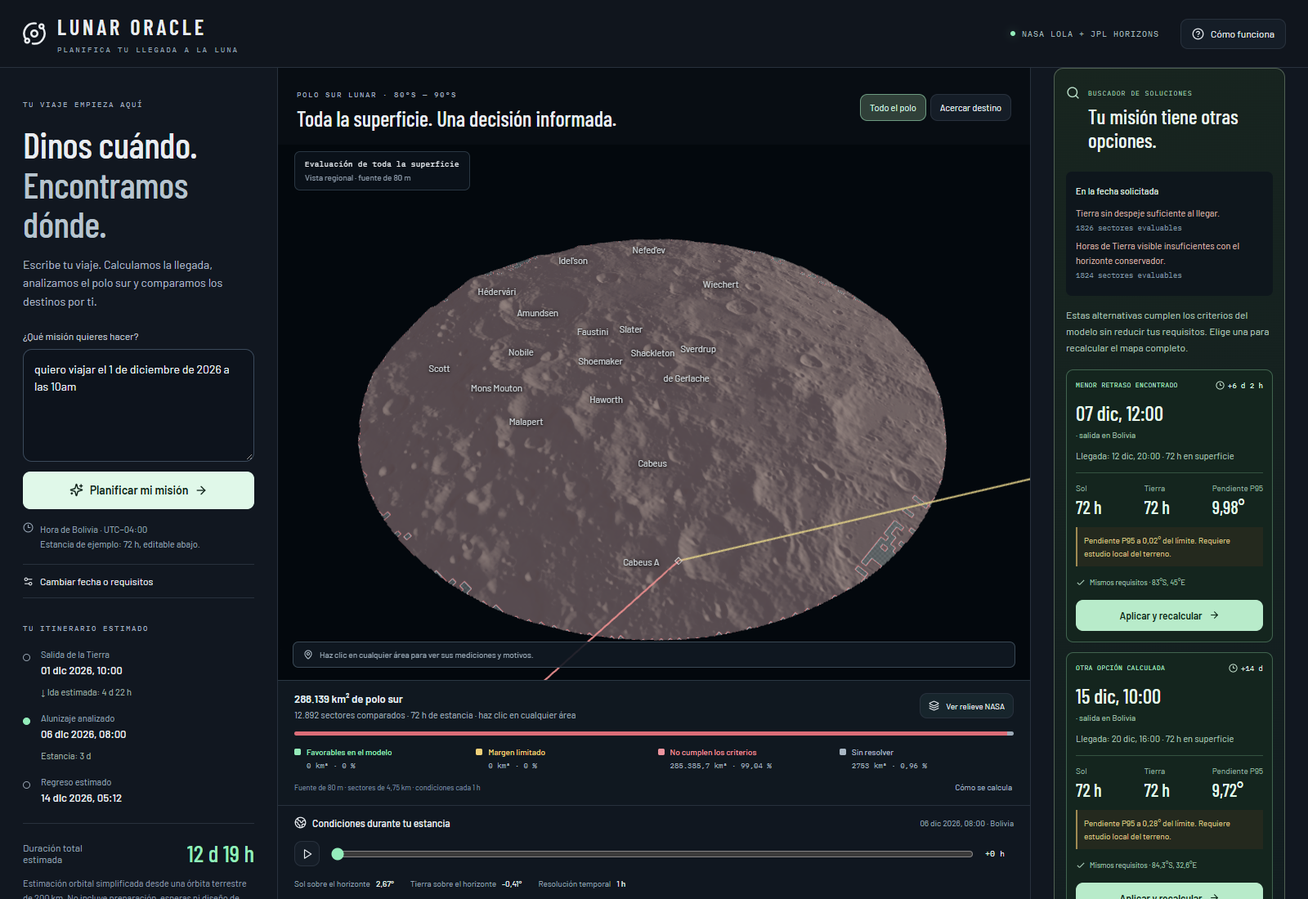
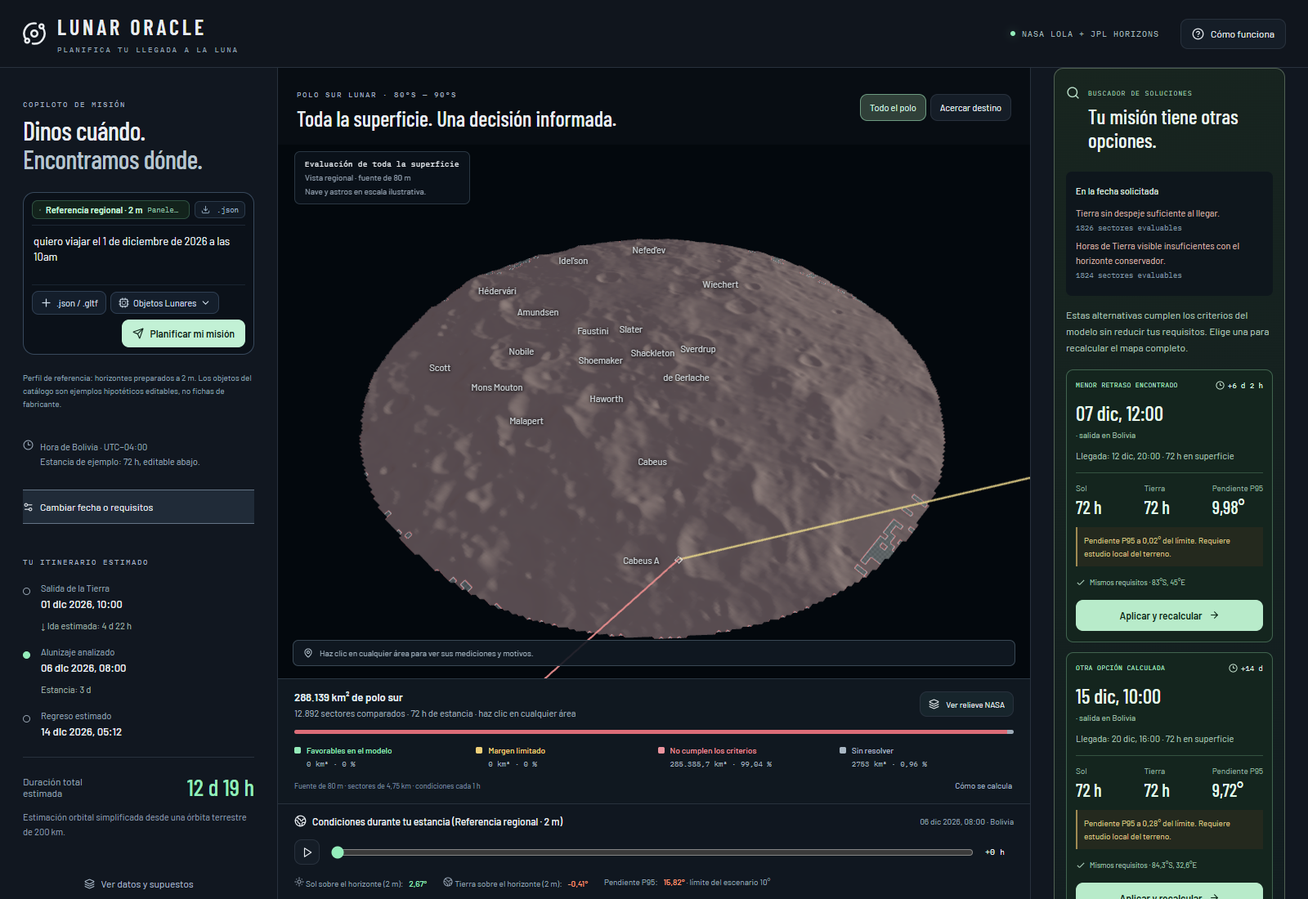
fix: clarify vehicle evidence and keep mission controls accessible

diff --git a/frontend/src/features/mission/UnifiedMissionPlanner.tsx b/frontend/src/features/mission/UnifiedMissionPlanner.tsx
@@ -1,5 +1,5 @@
 import { useEffect, useMemo, useRef, useState } from 'react'
-import { AlertTriangle, ArrowRight, Bot, Check, ChevronDown, CircleHelp, Clock3, Compass, Cpu, Download, FileUp, Globe2, Layers, LoaderCircle, MapPin, Orbit, Pause, Play, Plus, Radio, Rocket, Send, Settings2, Sun, User, X } from 'lucide-react'
+import { AlertTriangle, ArrowRight, Bot, Check, ChevronDown, CircleHelp, Clock3, Compass, Cpu, Download, FileUp, Globe2, Layers, LoaderCircle, MapPin, Orbit, Pause, Play, Plus, Rocket, Send, Settings2, Sun, User, X } from 'lucide-react'
 import { Tactical3DScene,type PlanMapMarker } from '../tactical/Tactical3DScene'
 import { loadAtlas,type AtlasData } from '../sites/atlasGeometry'
 import { loadDetailTile } from '../sites/lunarDetail'
@@ -323,8 +323,8 @@ export default function UnifiedMissionPlanner(){
       const solar_panel_height=meta.solar_panel_height??meta.panel_height
       const antenna_height=meta.antenna_height??meta.dte_antenna_height
       const center_of_gravity_tolerance=meta.center_of_gravity_tolerance??meta.max_slope_deg
-      if(typeof solar_panel_height!=='number'||typeof antenna_height!=='number'||typeof center_of_gravity_tolerance!=='number'||!Number.isFinite(solar_panel_height)||solar_panel_height<0.5||solar_panel_height>200||!Number.isFinite(antenna_height)||antenna_height<0.5||antenna_height>200||!Number.isFinite(center_of_gravity_tolerance)||center_of_gravity_tolerance<=0||center_of_gravity_tolerance>45){
-        setError('El archivo debe incluir solar_panel_height (0.5–200m), antenna_height (0.5–200m) y center_of_gravity_tolerance (1–45°).')
+      if(typeof solar_panel_height!=='number'||typeof antenna_height!=='number'||typeof center_of_gravity_tolerance!=='number'||!Number.isFinite(solar_panel_height)||solar_panel_height<0.5||solar_panel_height>200||!Number.isFinite(antenna_height)||antenna_height<0.5||antenna_height>200||!Number.isFinite(center_of_gravity_tolerance)||center_of_gravity_tolerance<0||center_of_gravity_tolerance>45){
+        setError('El archivo debe incluir solar_panel_height (0.5–200m), antenna_height (0.5–200m) y center_of_gravity_tolerance (0–45°).')
         return
       }
       setError('')
@@ -477,7 +477,7 @@ export default function UnifiedMissionPlanner(){
           {chatTurns.length===0&&!plan&&!busy&&<div className="chat-bubble assistant welcome-bubble">
             <div className="bubble-avatar"><Bot size={15}/></div>
             <div className="bubble-body">
-              <div className="bubble-meta"><strong>Gemini Copilot</strong><span>Copiloto del escenario</span></div>
+              <div className="bubble-meta"><strong>Copiloto de misión</strong><span>Planificador del escenario</span></div>
               <p>Escribe la fecha de tu viaje al Polo Sur Lunar. Dentro de la casilla inferior puedes <strong>adjuntar tu propio `.json` / `.gltf`</strong> con el botón <strong>+</strong> o elegir cualquiera de los <strong>perfiles de referencia y ejemplos hipotéticos de vehículos e infraestructura</strong>.</p>
               <button type="button" className="example-trip" onClick={()=>{setMessage(EXAMPLE);void calculate(EXAMPLE)}} disabled={!atlas||!polar}>Probar el viaje del 25 dic · 08:00 <ArrowRight size={12}/></button>
             </div>
@@ -516,27 +516,27 @@ export default function UnifiedMissionPlanner(){
             <div className="bubble-avatar"><Bot size={15}/></div>
             <div className="bubble-body">
               <div className="bubble-meta">
-                <strong>Análisis de Misión (Gemini Copilot)</strong>
-                <span>{reviewBusy?'Evaluando geometría…':landerReview?.mode==='ai'?`IA · ${landerReview.model}`:'Ingeniero Jefe LOLA'}</span>
+                <strong>Explicación del escenario</strong>
+                <span>{reviewBusy?'Evaluando geometría…':landerReview?.mode==='ai'?`IA · ${landerReview.model}`:'Guía con evidencia del modelo'}</span>
               </div>
               {landerReview?<>
                 <p className="engineer-summary">{landerReview.summary}</p>
                 <div className="engineer-alert">
                   <AlertTriangle size={14}/>
-                  <div><strong>Diagnóstico de Supervivencia:</strong> {landerReview.risk_alert}</div>
+                  <div><strong>Condiciones y límites:</strong> {landerReview.risk_alert}</div>
                 </div>
                 <div className="engineer-recs">
-                  <span className="micro-title">RECOMENDACIONES TÁCTICAS</span>
+                  <span className="micro-title">OPCIONES PARA ESTUDIAR</span>
                   <div className="engineer-rec-item">
-                    <strong>1. Cambio de Sitio:</strong> {landerReview.site_recommendation}
+                    <strong>1. Sitio:</strong> {landerReview.site_recommendation}
                     {recommendedAlt&&recommendedAlt.id!==selected?.id&&<button type="button" onClick={()=>{choose(recommendedAlt.id);setFocus(true);appendChatTurn('user',`Cambiar coordenada objetivo al sector alternativo (${num(Math.abs(recommendedAlt.latitude_deg),2)}°S, ${longitude(recommendedAlt.longitude_deg,2)})`,vehicle)}}>Ir al sitio alternativo ({num(Math.abs(recommendedAlt.latitude_deg),2)}°S)</button>}
                   </div>
                   <div className="engineer-rec-item">
-                    <strong>2. Cambio de Hardware:</strong> {landerReview.hardware_recommendation}
-                    {vehicle.solar_panel_height<45&&<button type="button" onClick={()=>{setFocus(true);applyVehicleProfile(LUNAR_OBJECTS.starship,'Recalculando con Starship HLS (Paneles a 50 m)…')}}>Recalcular misión con perfil Starship HLS (50m)</button>}
+                    <strong>2. Perfil del vehículo:</strong> {landerReview.hardware_recommendation}
+                    <small>Para comparar otras alturas se necesitan horizontes propios; elegir un nombre de nave no resuelve la falta de datos.</small>
                   </div>
                 </div>
-              </>:<p className="loading-note"><LoaderCircle size={13} className="spin"/> Generando diagnóstico del Ingeniero Jefe para {vehicle.lander_name}…</p>}
+              </>:<p className="loading-note"><LoaderCircle size={13} className="spin"/> Preparando una explicación del escenario para {vehicle.lander_name}…</p>}
             </div>
           </div>}
           <div ref={chatEndRef}/>
@@ -580,7 +580,7 @@ export default function UnifiedMissionPlanner(){
           />
 
           {/* Popover menu for all Lunar South Pole vehicles, rovers & habitats */}
-          {catalogOpen&&<div className="lunar-catalog-popover" role="listbox" aria-label="Objetos y vehículos para el Polo Sur Lunar">
+          {catalogOpen&&<div className="lunar-catalog-popover" role="region" aria-label="Objetos y vehículos para el Polo Sur Lunar">
             <div className="catalog-popover-head">
               <span><Compass size={12}/> OBJETOS Y ELEMENTOS · POLO SUR LUNAR</span>
               <button type="button" onClick={()=>setCatalogOpen(false)} aria-label="Cerrar selector"><X size={13}/></button>
@@ -611,7 +611,7 @@ export default function UnifiedMissionPlanner(){
             </div>
             <div className="catalog-popover-foot">
               <button type="button" onClick={()=>{setCatalogOpen(false);fileInputRef.current?.click()}}>
-                <FileUp size={13}/> Subir archivo personalizado (.json / .gltf / .glb)
+                <FileUp size={13}/> Subir archivo personalizado (.json / .gltf)
               </button>
             </div>
           </div>}
@@ -688,16 +688,16 @@ export default function UnifiedMissionPlanner(){
           <div className="conditions-heading"><strong><Globe2 size={15}/> Condiciones durante tu estancia ({vehicle.lander_name})</strong><time>{current?localDate(current.t_utc):localDate(plan.mission.arrival_utc)} · Bolivia</time></div>
           <div className="conditions-slider"><button aria-label={playing?'Pausar condiciones':'Reproducir condiciones'} disabled={!series.length||flying} onClick={()=>{if(timeline===series.length-1)setTimeline(0);setPlaying(v=>!v)}}>{playing?<Pause size={14}/>:<Play size={14}/>}</button><input aria-label="Hora de la estancia" type="range" min={0} max={Math.max(0,series.length-1)} value={timeline} disabled={!series.length||flying} onChange={e=>{setPlaying(false);setTimeline(Number(e.target.value))}}/><span>+{timeline} h</span></div>
           <div className="conditions-readouts">
-            <span><Sun size={12}/> Paneles ({vehicle.solar_panel_height}m): <b className={current&&current.sun_elevation_deg-current.sun_horizon_deg>0.3?'kpi-ok':'kpi-warn'}>{current?(current.sun_elevation_deg-current.sun_horizon_deg>0.3?(current.base_sun_horizon_deg!==undefined&&current.sun_elevation_deg-current.base_sun_horizon_deg<=0.3?'ENERGÍA NOMINAL (Punta iluminada · Base en sombra)':`ENERGÍA NOMINAL (+${num(current.sun_elevation_deg-current.sun_horizon_deg,2)}°)`):`SOMBRA (${num(current.sun_elevation_deg-current.sun_horizon_deg,2)}°)`):'—'}</b></span>
-            <span><Radio size={12}/> Antena DTE ({vehicle.antenna_height}m): <b className={current&&current.earth_elevation_deg-current.earth_horizon_deg>0.3?'kpi-ok':'kpi-warn'}>{current?(current.earth_elevation_deg-current.earth_horizon_deg>0.3?`ENLACE DIRECTO (+${num(current.earth_elevation_deg-current.earth_horizon_deg,2)}°)`:`BLOQUEO (${num(current.earth_elevation_deg-current.earth_horizon_deg,2)}°)`):'—'}</b></span>
-            <span>Pendiente vs CG ({vehicle.center_of_gravity_tolerance}°): <b className={(selected?.regional_slope_deg??0)<=vehicle.center_of_gravity_tolerance?'kpi-ok':'kpi-warn'}>{num(selected?.regional_slope_deg,1)}°</b></span>
+            <span><Sun size={12}/> Sol sobre el horizonte ({vehicle.solar_panel_height} m): <b className={current?(current.sun_elevation_deg-current.sun_horizon_deg>0.3?'kpi-ok':'kpi-warn'):undefined}>{num(current?current.sun_elevation_deg-current.sun_horizon_deg:null,2)}°</b></span>
+            <span><Globe2 size={12}/> Tierra sobre el horizonte ({vehicle.antenna_height} m): <b className={current?(current.earth_elevation_deg-current.earth_horizon_deg>0.3?'kpi-ok':'kpi-warn'):undefined}>{num(current?current.earth_elevation_deg-current.earth_horizon_deg:null,2)}°</b></span>
+            <span>Pendiente P95: <b className={selected?.regional_slope_deg==null?undefined:selected.regional_slope_deg<=Math.min(intent?.max_slope_deg??slope,vehicle.center_of_gravity_tolerance)?'kpi-ok':'kpi-warn'}>{num(selected?.regional_slope_deg,2)}°</b> · límite del escenario {num(Math.min(intent?.max_slope_deg??slope,vehicle.center_of_gravity_tolerance),2)}°</span>
           </div>
         </div>}
       </main>
 
       <aside className="mission-decisions">
         {!plan?<div className="decision-welcome"><MapPin size={28}/><h2>Aquí encontrarás tu mejor opción.</h2><p>El sistema relacionará la fecha de tu viaje y el objeto lunar elegido con el terreno, la luz y la visibilidad de la Tierra.</p><ul><li><Check size={13}/> Un destino recomendado y sus razones</li><li><Check size={13}/> Clasificación de toda la superficie</li><li><Check size={13}/> Diagnóstico conversacional en el chat izquierdo</li></ul><small>Los resultados corresponden a un modelo regional de planificación, no a una autorización de vuelo.</small></div>:<>
-          <div className="decision-title"><span className="micro-title">{plan.best?'RECOMENDACIÓN CALCULADA':'NINGUNA ZONA CUMPLE TODOS LOS CRITERIOS'}</span>{aiMode&&<small>{aiMode}</small>}</div>
+          <div className="decision-title"><span className="micro-title">{plan.best?'RECOMENDACIÓN CALCULADA':plan.counts.unknown===plan.total_cells?'FALTAN DATOS PARA EVALUAR ESTE PERFIL':'NINGUNA ZONA CUMPLE TODOS LOS CRITERIOS'}</span>{aiMode&&<small>{aiMode}</small>}</div>
           {plan.best?<button className={'best-destination '+(selected?.id===plan.best.id?'selected':'')} onClick={()=>choose(plan.best!.id)}><span className="best-badge">★ MEJOR CANDIDATO</span><h2>{num(Math.abs(plan.best.latitude_deg),3)}°S · {longitude(plan.best.longitude_deg,3)}</h2><p>{reasonPoint(plan.best)}</p><div className="destination-metrics"><span>Luz solar<strong>{num(plan.best.sun_hours,0)} h</strong></span><span>Tierra visible<strong>{num(plan.best.earth_hours,0)} h</strong></span><span>Pendiente P95<strong>{num(plan.best.regional_slope_deg,2)}°</strong></span></div></button>:<MissionRescuePanel report={rescueReport} busy={rescueBusy} error={rescueError} elapsed={rescueElapsed} onApply={applyAlternative} onRetry={()=>setRescueAttempt(a=>a+1)} onCancel={cancelRescue} onEvidence={()=>setEvidence(true)}/>}
           {plan.alternatives.filter(p=>p.id!==plan.best?.id).length>0&&<section className="other-destinations"><h3>También puedes estudiar</h3>{plan.alternatives.filter(p=>p.id!==plan.best?.id).map((p,i)=><button key={p.id} className={selected?.id===p.id?'selected':''} onClick={()=>choose(p.id)}><span className="destination-number">{i+2}</span><div><strong>{num(Math.abs(p.latitude_deg),2)}°S · {longitude(p.longitude_deg,2)}</strong><small>{num(p.sun_hours,0)} h de Sol · {num(p.earth_hours,0)} h de Tierra</small></div><ArrowRight size={13}/></button>)}</section>}
           {selected&&<section className="selected-destination"><div className="selected-destination-title"><span className={'selected-color '+selected.risk}/><h3>{selectedLabel}</h3></div><span className="selected-sector-id">Sector {selected.id.replace('polar:','')} · {num(selected.area_km2,2)} km² regionales</span><p>{reasonPoint(selected)}</p><dl><div><dt>Perfil del escenario</dt><dd>{vehicle.lander_name}</dd></div><div><dt>Centro del sector</dt><dd>{num(selected.latitude_deg,5)}°, {num(selected.longitude_deg,5)}°</dd></div><div><dt>Elevación</dt><dd>{num(selected.elevation_m??selectedCell?.elevation_m,0)} m</dd></div><div><dt>Pendiente P95 · fuente de 80 m</dt><dd>{num(selected.regional_slope_deg,2)}°</dd></div><div><dt>Máxima pendiente nativa</dt><dd>{num(selected.max_slope_deg??selectedCell?.max_slope_deg)}°</dd></div><div><dt>Sol visible acumulado</dt><dd>{num(selected.sun_hours,0)} h</dd></div><div><dt>Tierra visible acumulada</dt><dd>{num(selected.earth_hours,0)} h</dd></div></dl>

diff --git a/frontend/src/features/mission/unified-mission.css b/frontend/src/features/mission/unified-mission.css
@@ -173,7 +173,7 @@ button:disabled{cursor:default;opacity:.43}
 .engineer-bubble .engineer-rec-item button{margin-top:5px;width:100%;font-size:11px;padding:7px 9px;background:#193126;border-color:#598c6c;color:#d6fce6}
 
 /* ChatGPT / Gemini style unified composer with inline + (.json/.gltf) and Lunar Object Selector */
-.chat-composer-box{position:relative;border:1px solid #38495c;background:#0b1119;border-radius:14px;padding:9px 10px 8px;transition:border-color .15s,box-shadow .15s}
+.chat-composer-box{position:relative;flex-shrink:0;border:1px solid #38495c;background:#0b1119;border-radius:14px;padding:9px 10px 8px;transition:border-color .15s,box-shadow .15s}
 .chat-composer-box:focus-within,.chat-composer-box.dragging{border-color:var(--green);box-shadow:0 0 0 1px #94edbb33}
 .composer-attachment-bar{display:flex;align-items:center;justify-content:space-between;gap:6px;padding-bottom:7px;margin-bottom:6px;border-bottom:1px solid #1d2835}
 .composer-active-chip{display:flex;align-items:center;gap:6px;min-width:0;padding:4px 8px;border-radius:7px;background:#13231c;border:1px solid #2f5241;color:#c7f7dc;font-size:11px}
@@ -189,11 +189,11 @@ button:disabled{cursor:default;opacity:.43}
 .upload-notice{display:block;margin-top:6px;font-size:10px;color:var(--green)}
 
 /* Popover for all Lunar South Pole objects and vehicles */
-.lunar-catalog-popover{position:absolute;left:0;right:0;bottom:calc(100% + 8px);z-index:90;max-height:360px;display:flex;flex-direction:column;background:#101823;border:1px solid #486178;border-radius:12px;box-shadow:0 14px 42px #000c;overflow:hidden}
-.catalog-popover-head{display:flex;align-items:center;justify-content:space-between;padding:9px 11px;background:#15202e;border-bottom:1px solid #293849;font:600 9px 'IBM Plex Mono',monospace;color:#b9d4c6;letter-spacing:.8px}
+.lunar-catalog-popover{position:relative;margin:8px 0;max-height:min(360px,50dvh);flex-shrink:0;display:flex;flex-direction:column;background:#101823;border:1px solid #486178;border-radius:12px;box-shadow:0 14px 42px #000c;overflow:hidden}
+.catalog-popover-head{flex-shrink:0;display:flex;align-items:center;justify-content:space-between;padding:9px 11px;background:#15202e;border-bottom:1px solid #293849;font:600 9px 'IBM Plex Mono',monospace;color:#b9d4c6;letter-spacing:.8px}
 .catalog-popover-head span{display:flex;align-items:center;gap:6px}
 .unified-mission .catalog-popover-head button{padding:3px;border:0;background:transparent}
-.catalog-popover-list{overflow-y:auto;padding:8px;display:flex;flex-direction:column;gap:10px;scrollbar-width:thin}
+.catalog-popover-list{min-height:0;overflow-y:auto;padding:8px;display:flex;flex-direction:column;gap:10px;scrollbar-width:thin}
 .catalog-group{display:flex;flex-direction:column;gap:5px}
 .catalog-group-title{font:600 9px 'IBM Plex Mono',monospace;color:#88a4b8;padding:2px 4px;text-transform:uppercase;letter-spacing:.7px}
 .unified-mission .catalog-item-btn{width:100%;display:flex;flex-direction:column;align-items:flex-start;gap:3px;text-align:left;padding:8px 9px;border-radius:8px;background:#0c131c;border:1px solid #233140}
@@ -202,7 +202,7 @@ button:disabled{cursor:default;opacity:.43}
 .catalog-item-main strong{font-size:12px;color:#edf5fa}
 .catalog-item-main span{font:9px 'IBM Plex Mono',monospace;color:var(--green)}
 .catalog-item-btn small{font-size:10px;color:#97aab9;line-height:1.35}
-.catalog-popover-foot{padding:7px 8px;border-top:1px solid #253444;background:#0d141d}
+.catalog-popover-foot{flex-shrink:0;padding:7px 8px;border-top:1px solid #253444;background:#0d141d}
 .unified-mission .catalog-popover-foot button{width:100%;font-size:11px;padding:7px;border-style:dashed;border-color:#445e75;background:#131d29}
 
 .conditions-readouts b.kpi-ok{color:var(--green)}

diff --git a/frontend/src/features/mission/MissionRescuePanel.tsx b/frontend/src/features/mission/MissionRescuePanel.tsx
@@ -3,6 +3,7 @@ import {ArrowRight,Check,Clock3,LoaderCircle,RefreshCw,Search,X} from 'lucide-re
 import type {RescueReport,RescueProposal} from './rescueTypes'
 const n=(value:number|null|undefined,digits=1)=>typeof value==='number'&&Number.isFinite(value)?value.toLocaleString('es',{maximumFractionDigits:digits}):'—'
 const time=(utc:string)=>new Intl.DateTimeFormat('es',{timeZone:'America/La_Paz',day:'2-digit',month:'short',hour:'2-digit',minute:'2-digit',hour12:false}).format(new Date(utc))
+function slopeMargin(proposal:RescueProposal){return Math.min(proposal.proposed_request.max_slope_deg,proposal.proposed_request.vehicle_profile?.center_of_gravity_tolerance??proposal.proposed_request.max_slope_deg)-(proposal.best.regional_slope_deg??0)}
 function delay(hours:number){const days=Math.floor(hours/24),rest=hours%24;return (days?days+' d ':'')+(rest?n(rest)+' h':days?'':'0 h')}
 export default function MissionRescuePanel({report,busy,error,elapsed,onApply,onRetry,onCancel,onEvidence}:{report:RescueReport|null;busy:boolean;error:string;elapsed:number;onApply:(proposal:RescueProposal)=>void;onRetry:()=>void;onCancel:()=>void;onEvidence:()=>void}){
  const found=report?.status==='found'&&Boolean(report.proposals.length)
@@ -15,7 +16,7 @@ export default function MissionRescuePanel({report,busy,error,elapsed,onApply,on
     <h3>{time(proposal.proposed_request.departure_utc)} <small>· {proposal.proposed_request.date_kind==='landing'?'alunizaje':'salida'} en Bolivia</small></h3>
     <p className="proposal-arrival">Llegada: {time(proposal.mission.arrival_utc)} · {n(proposal.mission.surface_hours)} h en superficie</p>
     <div className="proposal-metrics"><span>Sol <b>{n(proposal.best.sun_hours)} h</b></span><span>Tierra <b>{n(proposal.best.earth_hours)} h</b></span><span>Pendiente P95 <b>{n(proposal.best.regional_slope_deg,2)}°</b></span></div>
-    {proposal.best.regional_slope_deg!=null&&proposal.proposed_request.max_slope_deg-proposal.best.regional_slope_deg<1&&<p className="proposal-caution">Pendiente P95 a {n(proposal.proposed_request.max_slope_deg-proposal.best.regional_slope_deg,2)}° del límite. Requiere estudio local del terreno.</p>}<div className="proposal-preserved"><Check size={12}/> Mismos requisitos · {n(Math.abs(proposal.best.latitude_deg))}°S, {n(Math.abs(proposal.best.longitude_deg))}°{proposal.best.longitude_deg<0?'O':'E'}</div>
+    {proposal.best.regional_slope_deg!=null&&slopeMargin(proposal)<1&&<p className="proposal-caution">Pendiente P95 a {n(slopeMargin(proposal),2)}° del límite. Requiere estudio local del terreno.</p>}<div className="proposal-preserved"><Check size={12}/> Mismos requisitos · {n(Math.abs(proposal.best.latitude_deg))}°S, {n(Math.abs(proposal.best.longitude_deg))}°{proposal.best.longitude_deg<0?'O':'E'}</div>
     <button className="apply-rescue" onClick={()=>onApply(proposal)}>Aplicar y recalcular <ArrowRight size={13}/></button>
    </article>)}</div></>}
    {report?.status==='none'&&<p>Ninguna de las fechas evaluadas dentro de los próximos {report.search.search_days} días cumplió los criterios. Puedes mover la fecha o ajustar tus requisitos; no se han cambiado automáticamente.</p>}

diff --git a/docs/DECISION_SUPPORT_AND_TWIN_ROADMAP.md b/docs/DECISION_SUPPORT_AND_TWIN_ROADMAP.md
@@ -30,9 +30,9 @@ Las dos últimas filas son una hoja de ruta, no capacidades que el producto actu
 
 | Prioridad | Función | Decisión que permite tomar | Estado en esta revisión |
 | --- | --- | --- | --- |
-| P0 | Rescate automático del escenario | Qué fechas o lugares satisfacen las mismas restricciones | Trabajo de esta iteración |
-| P0 | Comparador del escenario original y propuestas | Qué cambió, qué se preservó y qué mejora realmente | Integración de interfaz asociada al rescate |
-| P1 | Ventanas operativas y cuenta atrás | Cuándo se pierde o recupera Sol/Tierra y cuánto dura el peor corte | Derivable de series propias; requiere etiquetas de cadencia y límite temporal |
+| P0 | Rescate automático del escenario | Qué fechas o lugares satisfacen las mismas restricciones | Implementado y probado con respuestas NASA originales |
+| P0 | Comparador del escenario original y propuestas | Qué cambió, qué se preservó y qué mejora realmente | Implementado: aplicación explícita y exportación de la comparación |
+| P1 | Ventanas operativas y cuenta atrás | Cuándo se pierde o recupera Sol/Tierra y cuánto dura el peor corte | Implementado con cadencia horaria, intervalos y fin de datos explícitos |
 | P1 | Modelo configurable de energía y memoria | Si la nave puede sostener la operación durante los cortes | Requiere parámetros de vehículo y actividades; no inferirlos de la apariencia del mapa |
 | P2 | Planificación de actividades y frontera de compromisos | Qué observaciones ejecutar con energía y comunicaciones disponibles | Depende del modelo de recursos |
 | P2 | Refinamiento local y validación independiente | Si la preselección regional se mantiene a escala de huella | Requiere datos locales y tolerancias de nave |
@@ -180,3 +180,12 @@ Las mediciones pueden llegar mediante archivos importados; no hace falta inventa
 Las páginas de algunos eventos locales 2026 alojadas en el portal citan impacto, creatividad, validez, relevancia y presentación. Son contenidos de organizadores locales y no sustituyen el manual global ni las reglas de la sede del equipo. [Space Apps Ajmer 2026](https://www.spaceappschallenge.org/2026/local-events/ajmer/), [Space Apps Islamabad 2026](https://www.spaceappschallenge.org/2026/local-events/islamabad/). No se afirma que esta hoja de ruta garantice premios o interés institucional.
 
 El mayor avance inmediato es cerrar el ciclo «evaluar, explicar, proponer, comparar y recalcular». El camino hacia el gemelo exige después conectar ese ciclo con estados y observaciones del sistema que se desea representar.
+
+
+## Perfiles de nave: evidencia antes de comparar hardware
+
+El chat permite importar un perfil JSON o metadatos JSON glTF y elegir ejemplos hipotéticos del catálogo. Cada archivo debe declarar altura de paneles, altura de antena y límite de pendiente; se rechazan números ausentes, booleanos y valores fuera de rango. El nombre se toma de los metadatos o del archivo. El límite es 1 MiB y no se admiten archivos GLB binarios. La apariencia y el nombre del objeto no verifican sus especificaciones físicas.
+
+El conjunto actual de horizontes corresponde a un observador a 2 m. Una altura diferente requiere calcular su horizonte desde el terreno; hasta entonces, sus horas de Sol/Tierra quedan desconocidas y el rescate no propone una fecha ficticia. No se utiliza una distancia arbitraria a obstáculos para conceder visibilidad a vehículos altos. El límite efectivo de pendiente es el menor entre la preferencia del usuario y el límite declarado por el perfil; cargar un vehículo nunca relaja la preferencia.
+
+Gemini recibe un resumen compacto de mediciones, fuentes y cobertura. Su explicación no convierte despeje solar en energía, visibilidad de la Tierra en capacidad de transmisión, ni pendiente regional en estabilidad mecánica o supervivencia. El descenso sigue siendo un ensayo de una nave genérica hipotética, sin parámetros dinámicos identificados de los objetos del catálogo.

diff --git a/README.md b/README.md
@@ -183,3 +183,14 @@ node frontend/scripts/test-mission-rescue.mjs
 ~~~
 
 Las seis respuestas originales NASA de la búsqueda y de la aplicación exacta se identifican en data/prepared/rescue_example.json. Las suites Node y Python validan ese caso sin red. El detalle del algoritmo y la evolución propuesta hacia un gemelo ambiental y operacional están en [DECISION_SUPPORT_AND_TWIN_ROADMAP.md](docs/DECISION_SUPPORT_AND_TWIN_ROADMAP.md).
+
+
+## Perfiles de vehículo sin supuestos ocultos
+
+El chat acepta perfiles `.json` o metadatos `.gltf` de hasta 1 MiB, con parámetros numéricos obligatorios. Los objetos del catálogo son ejemplos hipotéticos; no representan especificaciones verificadas del fabricante. La referencia regional utiliza paneles y antena a 2 m, que es la altura de los horizontes preparados. Otras alturas quedan como datos desconocidos hasta calcular horizontes propios. La tolerancia de un perfil nunca amplía el límite de pendiente elegido por el usuario.
+
+La explicación de Gemini se apoya en las mediciones y las fuentes del escenario; no afirma supervivencia, producción eléctrica o prestaciones de radio a partir de visibilidad geométrica. Para comprobar importaciones inválidas, límites conservados, perfiles sin cobertura y selección accesible en escritorio/móvil:
+
+~~~powershell
+node frontend/scripts/test-vehicle-profile-integrity.mjs
+~~~
